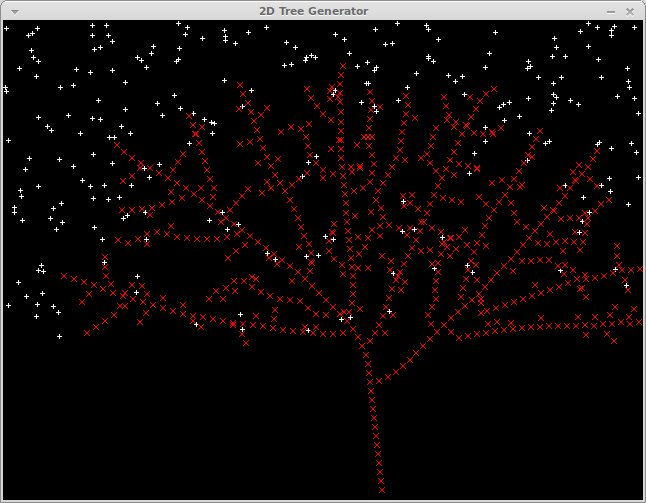
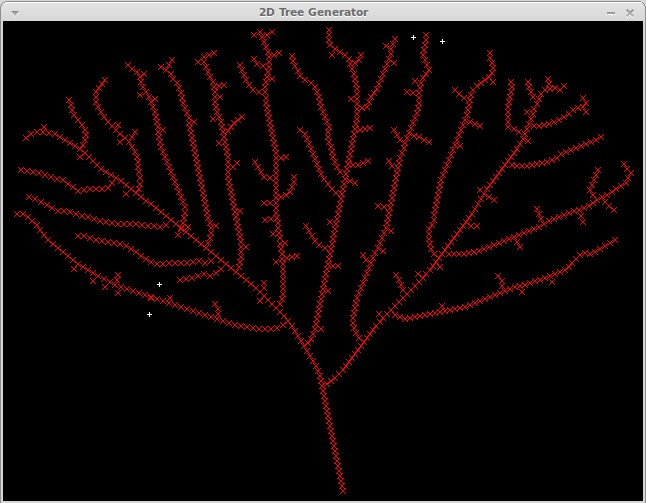
Crown is now handled as an fixed eslipsis.

Changed region(s): [[0.0, 0.0, 1.0, 1.0], [0.8669, 0.1789, 0.9288, 0.2386], [0.031, 0.328, 0.0929, 0.3579]]

diff --git a/crown.cpp b/crown.cpp
@@ -6,6 +6,7 @@
  */
 #include <iostream>
 #include <stdlib.h>
+#include <math.h>
 
 #include "crown.h"
 
@@ -40,22 +41,46 @@ void    cCrown::renderEntity()
     }
 }
 
-bool    cCrown::initEntity()
+bool    cCrown::fillCrown()
 {
     unsigned int i;
     for ( i = 0; i < ATTRACTPOINT_NUMBER; ++i )
     {
-        unsigned short x = rand() % SCREEN_W + 1;
-        unsigned short y = rand() % (SCREEN_H - (SCREEN_H / 3)) + (SCREEN_H / 3);
-        cAttractionPoint*   pAttractPoint = new cAttractionPoint( x, y );
-        if ( pAttractPoint->init() == true )
+        short x = rand() % (SCREEN_W) + 1;
+        short y = rand() % (SCREEN_H * 2 / 3) + SCREEN_H / 3;
+
+
+        double h = SCREEN_W / 2;
+        double k = ((SCREEN_H * 2 / 3) / 2) + SCREEN_H / 3;
+        double a = SCREEN_W;
+        a = a/2;
+        double b = (SCREEN_H / 3) * 2;
+        b = b/2;
+
+        bool isInElipsis = ((pow((x - h) / a, 2) + (pow((y - k)/b, 2)) ) <= 1);
+
+        if ( isInElipsis == true )
         {
-            _attractPointList.push_back( pAttractPoint );
+
+            cAttractionPoint*   pAttractPoint = new cAttractionPoint( x, y );
+            if ( pAttractPoint->init() == true )
+            {
+                _attractPointList.push_back( pAttractPoint );
+            }
+            else
+            {
+                return false;
+            }
         }
         else
         {
-            return false;
+            i = i - 1; // if not contained in elipsis then re-compute another point.
         }
     }
     return true;
+}
+
+bool    cCrown::initEntity()
+{
+    return fillCrown();
 }

diff --git a/defines.h b/defines.h
@@ -10,9 +10,9 @@
 #define SCREEN_H          480
 #define SCREEN_TITLE    "2D Tree Generator"
 
-#define ATTRACTPOINT_NUMBER             800
-#define ATTRACTPOINT_RADIUS               10
-#define ATTRACTPOINT_KILLDISTANCE      20
+#define ATTRACTPOINT_NUMBER             500
+#define ATTRACTPOINT_RADIUS               50
+#define ATTRACTPOINT_KILLDISTANCE      10
 
 #define ATTRACTPOINT_SIZE                   5
 #define ATTRACTPOINT_GLCOLOR            255, 255, 255

diff --git a/crown.h b/crown.h
@@ -31,6 +31,9 @@ public:
     virtual bool initEntity();
 
 private:
+    bool        fillCrown();
+
+private:
 
     std::vector< cAttractionPoint* > _attractPointList;
 
